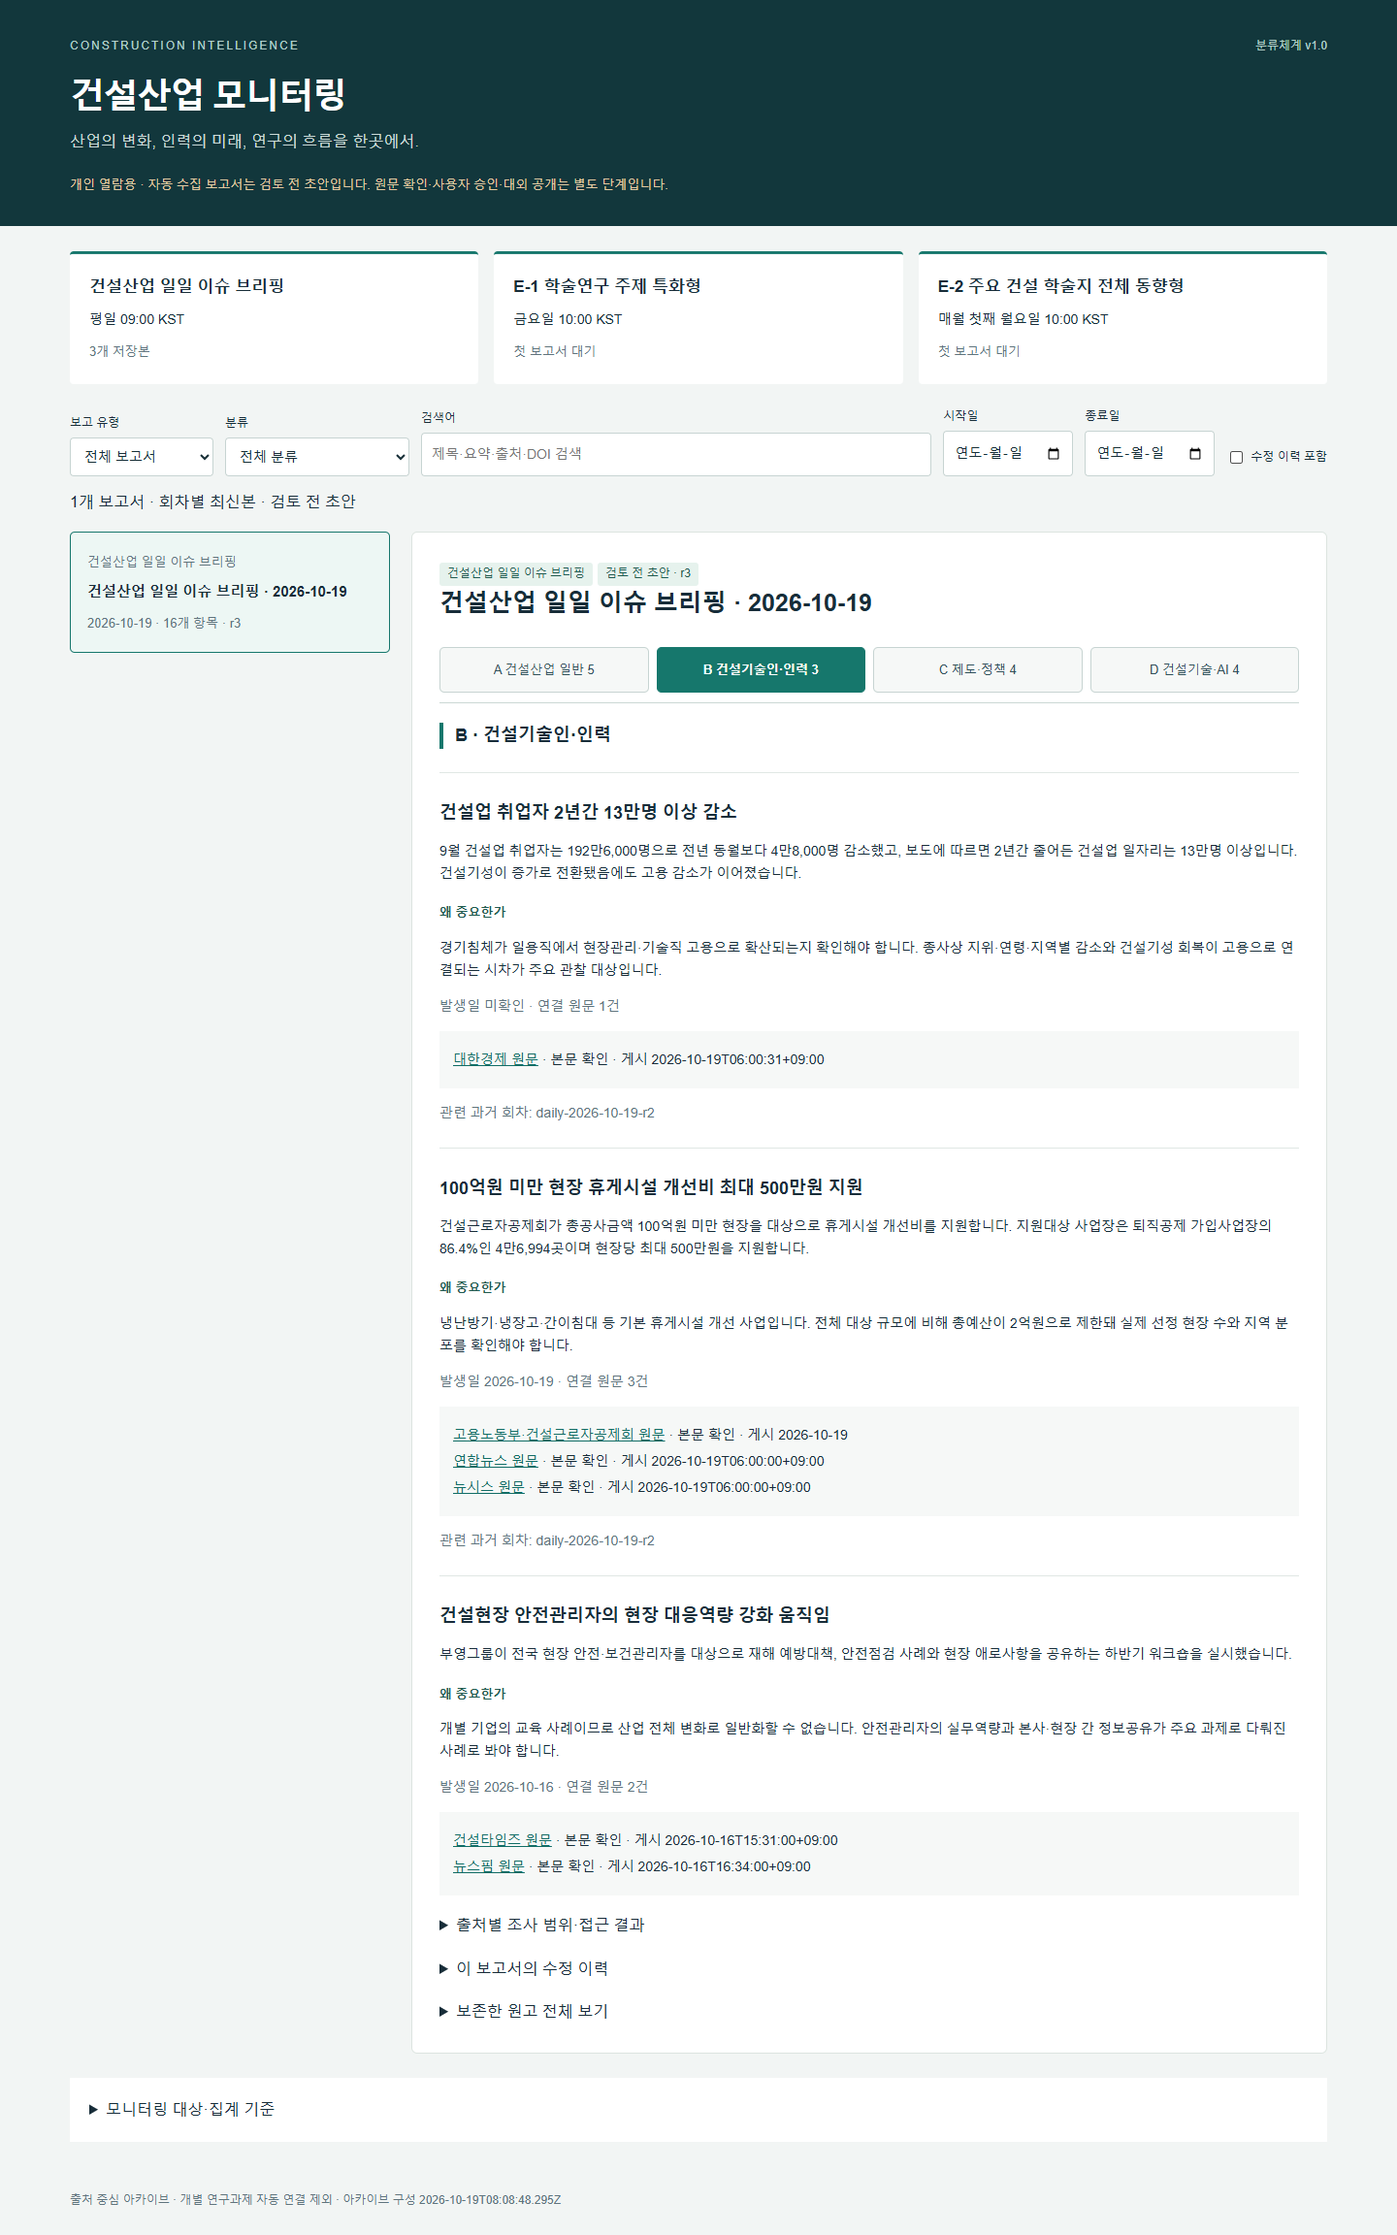
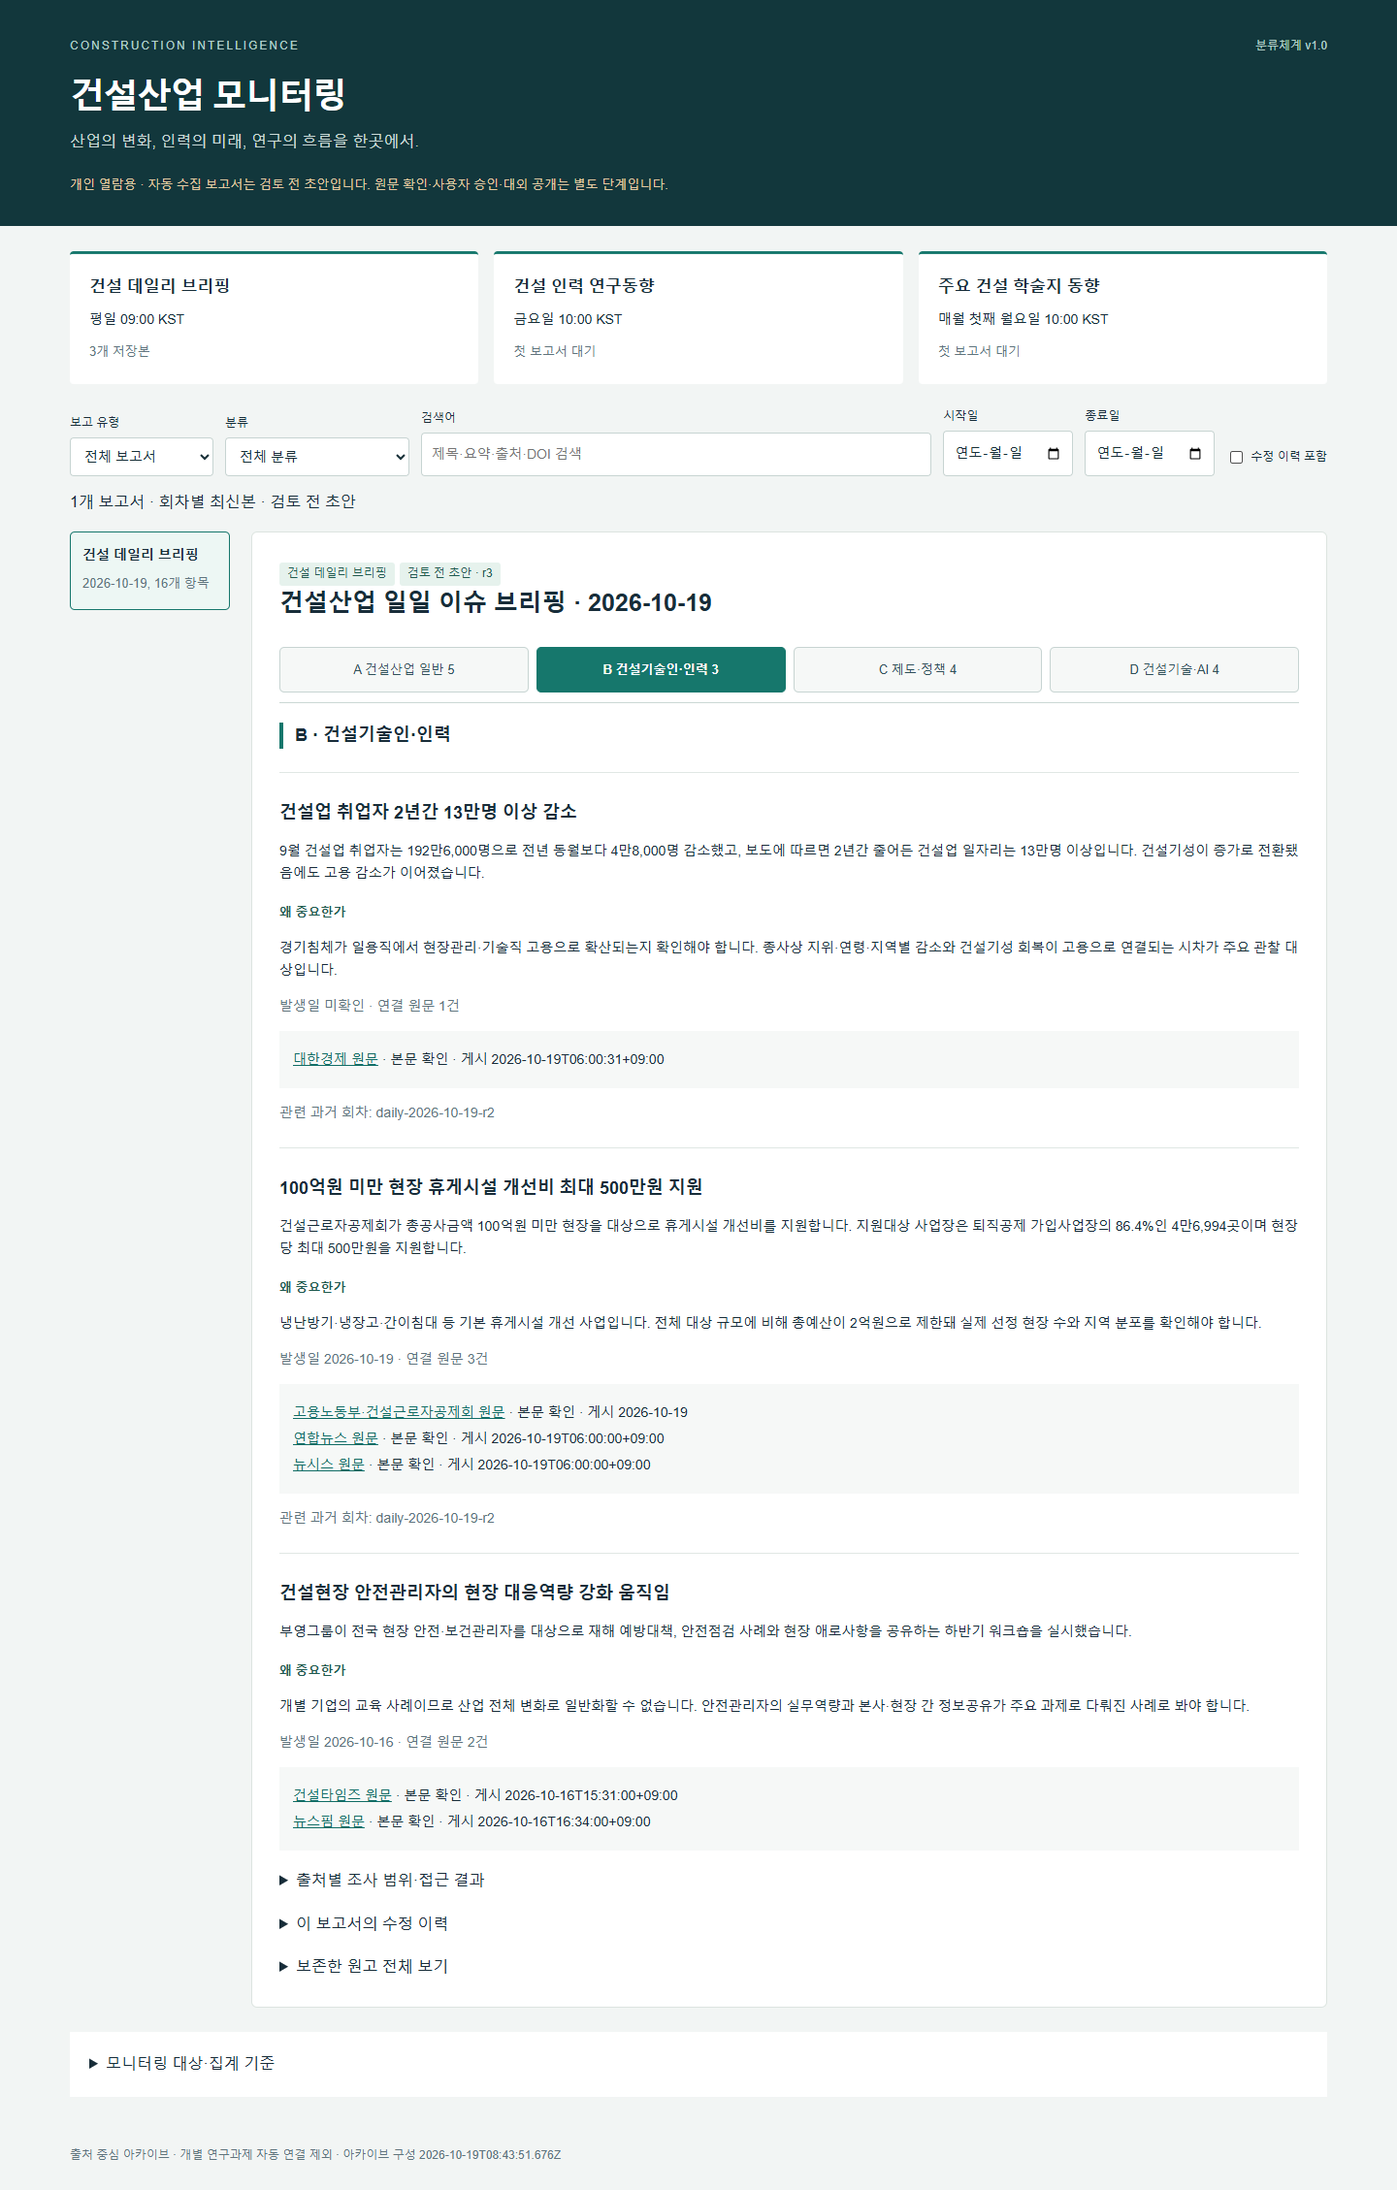
Simplify report navigation

diff --git a/dist/app.js b/dist/app.js
@@ -20,6 +20,6 @@ function show(r){selected=r.id;const d=$('#detail');d.replaceChildren(el('span',
  const coverage=el('details');coverage.append(el('summary','출처별 조사 범위·접근 결과'));r.coverage.forEach(c=>coverage.append(el('p',`${c.sourceId} · ${c.status} · ${c.note}`)));d.append(coverage);
  const history=el('details');history.append(el('summary','이 보고서의 수정 이력'));catalog.reports.filter(p=>p.kind===r.kind&&p.cycle===r.cycle).forEach(p=>{const b=el('button',`r${p.revision} · ${p.generatedAt}`);b.onclick=()=>show(p);history.append(b);});d.append(history);const raw=el('details');raw.append(el('summary','보존한 원고 전체 보기'),el('pre',r.markdown));d.append(raw);
  document.querySelectorAll('.report').forEach(b=>b.classList.toggle('active',b.dataset.id===selected));}
-function render(){const q=$('#query').value.trim().toLowerCase(),kind=$('#kind').value,c=$('#category').value,from=$('#from').value,to=$('#to').value;if(Object.hasOwn(catalog.config.categories,c))activeDailyTab=c;const seen=new Set();const latest=catalog.reports.filter(r=>{const k=r.kind+':'+r.cycle;if(!$('#history').checked&&seen.has(k))return false;seen.add(k);return true;});const rs=latest.filter(r=>(!kind||r.kind===kind)&&(!from||r.date>=from)&&(!to||r.date<=to)&&(!c||r.items.some(x=>x.classification===c))&&(!q||JSON.stringify([r.title,r.highlights,r.items]).toLowerCase().includes(q)));$('#status').textContent=`${rs.length}개 보고서 · ${$('#history').checked?'수정본 포함':'회차별 최신본'} · 검토 전 초안`;$('#reports').replaceChildren();rs.forEach(r=>{const b=el('button',undefined,'report');b.dataset.id=r.id;b.append(el('span',label(r),'muted'),el('strong',r.title),el('span',r.date+' · '+r.items.length+'개 항목 · r'+r.revision,'muted'));b.onclick=()=>show(r);$('#reports').append(b);});if(rs.length){show(rs.find(r=>r.id===selected)||rs[0]);}else $('#detail').replaceChildren(el('h2','해당 보고서가 없습니다'),el('p','조건을 변경하거나 다음 예약 실행 결과를 확인해 주세요.'));}
+function render(){const q=$('#query').value.trim().toLowerCase(),kind=$('#kind').value,c=$('#category').value,from=$('#from').value,to=$('#to').value;if(Object.hasOwn(catalog.config.categories,c))activeDailyTab=c;const seen=new Set();const latest=catalog.reports.filter(r=>{const k=r.kind+':'+r.cycle;if(!$('#history').checked&&seen.has(k))return false;seen.add(k);return true;});const rs=latest.filter(r=>(!kind||r.kind===kind)&&(!from||r.date>=from)&&(!to||r.date<=to)&&(!c||r.items.some(x=>x.classification===c))&&(!q||JSON.stringify([r.title,r.highlights,r.items]).toLowerCase().includes(q)));$('#status').textContent=`${rs.length}개 보고서 · ${$('#history').checked?'수정본 포함':'회차별 최신본'} · 검토 전 초안`;$('#reports').replaceChildren();rs.forEach(r=>{const b=el('button',undefined,'report');b.dataset.id=r.id;b.append(el('strong',label(r)),el('span',r.date+', '+r.items.length+'개 항목','muted'));b.onclick=()=>show(r);$('#reports').append(b);});if(rs.length){show(rs.find(r=>r.id===selected)||rs[0]);}else $('#detail').replaceChildren(el('h2','해당 보고서가 없습니다'),el('p','조건을 변경하거나 다음 예약 실행 결과를 확인해 주세요.'));}
 async function init(){try{const response=await fetch('catalog.json',{cache:'no-store'});if(!response.ok)throw Error('목록 수신 실패');catalog=await response.json();for(const [k,s] of Object.entries(catalog.config.schedules)){const card=el('div',undefined,'card'),count=catalog.reports.filter(r=>r.kind===k).length;card.append(el('h2',s.label),el('p',s.time),el('span',count?count+'개 저장본':'첫 보고서 대기','muted'));$('#schedule').append(card);}for(const [k,v] of [...Object.entries(catalog.config.categories),...Object.entries(catalog.config.topics),...catalog.config.paperCategories.map(x=>[x,x])]){const o=el('option',v);o.value=k;$('#category').append(o);}$('#scope').append(el('p','E-1: '+Object.values(catalog.config.topics).join(' · ')),el('p','E-2: '+catalog.config.paperCategories.join(' · ')),el('p','대표 주제 1개/논문. AI 활용 여부는 yes/no/unknown의 별도 태그. 접근 실패 자료는 0편으로 간주하지 않으며, 확인한 자료의 분포만 표시합니다.'));catalog.config.journals.forEach(j=>{const p=el('p');p.append(document.createTextNode(j.id+' · '),link(j.discoveryUrl,j.name));$('#scope').append(p);});$('#scope').append(el('p',catalog.config.journalLinkStatus,'muted'));$('#built').textContent='아카이브 구성 '+catalog.builtAt;for(const s of ['#kind','#category','#query','#from','#to','#history'])$(s).addEventListener('input',render);render();}catch(e){$('#status').textContent='자료를 불러오지 못했습니다. 연결 상태를 확인해 주세요.';}}
 init();

diff --git a/src/app.js b/src/app.js
@@ -20,6 +20,6 @@ function show(r){selected=r.id;const d=$('#detail');d.replaceChildren(el('span',
  const coverage=el('details');coverage.append(el('summary','출처별 조사 범위·접근 결과'));r.coverage.forEach(c=>coverage.append(el('p',`${c.sourceId} · ${c.status} · ${c.note}`)));d.append(coverage);
  const history=el('details');history.append(el('summary','이 보고서의 수정 이력'));catalog.reports.filter(p=>p.kind===r.kind&&p.cycle===r.cycle).forEach(p=>{const b=el('button',`r${p.revision} · ${p.generatedAt}`);b.onclick=()=>show(p);history.append(b);});d.append(history);const raw=el('details');raw.append(el('summary','보존한 원고 전체 보기'),el('pre',r.markdown));d.append(raw);
  document.querySelectorAll('.report').forEach(b=>b.classList.toggle('active',b.dataset.id===selected));}
-function render(){const q=$('#query').value.trim().toLowerCase(),kind=$('#kind').value,c=$('#category').value,from=$('#from').value,to=$('#to').value;if(Object.hasOwn(catalog.config.categories,c))activeDailyTab=c;const seen=new Set();const latest=catalog.reports.filter(r=>{const k=r.kind+':'+r.cycle;if(!$('#history').checked&&seen.has(k))return false;seen.add(k);return true;});const rs=latest.filter(r=>(!kind||r.kind===kind)&&(!from||r.date>=from)&&(!to||r.date<=to)&&(!c||r.items.some(x=>x.classification===c))&&(!q||JSON.stringify([r.title,r.highlights,r.items]).toLowerCase().includes(q)));$('#status').textContent=`${rs.length}개 보고서 · ${$('#history').checked?'수정본 포함':'회차별 최신본'} · 검토 전 초안`;$('#reports').replaceChildren();rs.forEach(r=>{const b=el('button',undefined,'report');b.dataset.id=r.id;b.append(el('span',label(r),'muted'),el('strong',r.title),el('span',r.date+' · '+r.items.length+'개 항목 · r'+r.revision,'muted'));b.onclick=()=>show(r);$('#reports').append(b);});if(rs.length){show(rs.find(r=>r.id===selected)||rs[0]);}else $('#detail').replaceChildren(el('h2','해당 보고서가 없습니다'),el('p','조건을 변경하거나 다음 예약 실행 결과를 확인해 주세요.'));}
+function render(){const q=$('#query').value.trim().toLowerCase(),kind=$('#kind').value,c=$('#category').value,from=$('#from').value,to=$('#to').value;if(Object.hasOwn(catalog.config.categories,c))activeDailyTab=c;const seen=new Set();const latest=catalog.reports.filter(r=>{const k=r.kind+':'+r.cycle;if(!$('#history').checked&&seen.has(k))return false;seen.add(k);return true;});const rs=latest.filter(r=>(!kind||r.kind===kind)&&(!from||r.date>=from)&&(!to||r.date<=to)&&(!c||r.items.some(x=>x.classification===c))&&(!q||JSON.stringify([r.title,r.highlights,r.items]).toLowerCase().includes(q)));$('#status').textContent=`${rs.length}개 보고서 · ${$('#history').checked?'수정본 포함':'회차별 최신본'} · 검토 전 초안`;$('#reports').replaceChildren();rs.forEach(r=>{const b=el('button',undefined,'report');b.dataset.id=r.id;b.append(el('strong',label(r)),el('span',r.date+', '+r.items.length+'개 항목','muted'));b.onclick=()=>show(r);$('#reports').append(b);});if(rs.length){show(rs.find(r=>r.id===selected)||rs[0]);}else $('#detail').replaceChildren(el('h2','해당 보고서가 없습니다'),el('p','조건을 변경하거나 다음 예약 실행 결과를 확인해 주세요.'));}
 async function init(){try{const response=await fetch('catalog.json',{cache:'no-store'});if(!response.ok)throw Error('목록 수신 실패');catalog=await response.json();for(const [k,s] of Object.entries(catalog.config.schedules)){const card=el('div',undefined,'card'),count=catalog.reports.filter(r=>r.kind===k).length;card.append(el('h2',s.label),el('p',s.time),el('span',count?count+'개 저장본':'첫 보고서 대기','muted'));$('#schedule').append(card);}for(const [k,v] of [...Object.entries(catalog.config.categories),...Object.entries(catalog.config.topics),...catalog.config.paperCategories.map(x=>[x,x])]){const o=el('option',v);o.value=k;$('#category').append(o);}$('#scope').append(el('p','E-1: '+Object.values(catalog.config.topics).join(' · ')),el('p','E-2: '+catalog.config.paperCategories.join(' · ')),el('p','대표 주제 1개/논문. AI 활용 여부는 yes/no/unknown의 별도 태그. 접근 실패 자료는 0편으로 간주하지 않으며, 확인한 자료의 분포만 표시합니다.'));catalog.config.journals.forEach(j=>{const p=el('p');p.append(document.createTextNode(j.id+' · '),link(j.discoveryUrl,j.name));$('#scope').append(p);});$('#scope').append(el('p',catalog.config.journalLinkStatus,'muted'));$('#built').textContent='아카이브 구성 '+catalog.builtAt;for(const s of ['#kind','#category','#query','#from','#to','#history'])$(s).addEventListener('input',render);render();}catch(e){$('#status').textContent='자료를 불러오지 못했습니다. 연결 상태를 확인해 주세요.';}}
 init();

diff --git a/dist/style.css b/dist/style.css
@@ -6,7 +6,7 @@ header{background:#12373c;color:white;padding:38px max(5vw,20px) 32px}
 h1{font-size:36px;letter-spacing:-1.5px;margin:12px 0 4px}header p{margin:0;color:#ccdbd8}.notice{font-size:13px;padding-top:20px;color:#e3cba3}
 main{max-width:1480px;padding:26px 5vw;margin:auto}.cards{display:grid;grid-template-columns:repeat(3,1fr);gap:16px}.card{background:#fff;padding:20px;border-top:3px solid #16776c;border-radius:4px}.card h2{font-size:17px;margin:0}.card p{margin:8px 0;font-size:14px}.muted{color:#60747d;font-size:13px}
 .toolbar{display:flex;gap:12px;flex-wrap:wrap;margin:24px 0 14px;align-items:end}label{font-size:12px;display:flex;flex-direction:column;gap:5px}select,input{padding:10px;border:1px solid #c7d4d2;border-radius:4px;font:inherit;font-size:14px;background:#fff;color:#172f37}.search{flex:1;min-width:200px}.check{flex-direction:row;align-items:center;padding-bottom:10px}
-.layout{display:grid;grid-template-columns:330px 1fr;gap:22px;margin-top:16px;align-items:start}#reports{display:flex;flex-direction:column;gap:10px}button.report{text-align:left;border:1px solid #d9e2df;background:white;border-radius:5px;padding:17px;cursor:pointer;font:inherit;color:inherit}button.report:hover,button.report.active{border-color:#16776c;background:#edf7f4}button.report strong{display:block;font-size:15px;margin:6px 0}
+.layout{display:grid;grid-template-columns:165px 1fr;gap:22px;margin-top:16px;align-items:start}#reports{display:flex;flex-direction:column;gap:10px}button.report{text-align:left;border:1px solid #d9e2df;background:white;border-radius:5px;padding:13px 12px;cursor:pointer;font:inherit;color:inherit}button.report:hover,button.report.active{border-color:#16776c;background:#edf7f4}button.report strong{display:block;font-size:14px;line-height:1.45;margin:0 0 6px}
 article{background:white;border:1px solid #dce4e0;padding:28px;border-radius:6px;min-width:0}article h2{font-size:25px;margin:0 0 12px;line-height:1.4}article h3{font-size:18px;line-height:1.5;margin:8px 0}article h4{font-size:13px;color:#215b50;margin:18px 0 2px}
 .badge{display:inline-block;background:#e6f2ed;color:#215b50;padding:2px 8px;border-radius:3px;font-size:12px;margin-right:5px}.warning{background:#fff7e7;color:#755416;padding:14px;border-left:3px solid #d7b15f}
 .domain-tabs{display:grid;grid-template-columns:repeat(4,1fr);gap:8px;margin:28px 0 20px;border-bottom:1px solid #cbd8d4;padding-bottom:10px}.domain-tab{border:1px solid #c7d4d2;background:#f6f8f7;color:#31515a;border-radius:5px;padding:12px 10px;font:inherit;font-size:13px;cursor:pointer}.domain-tab:hover,.domain-tab:focus-visible{border-color:#16776c;outline:2px solid #b9ddd5;outline-offset:1px}.domain-tab.active{background:#16776c;border-color:#16776c;color:#fff;font-weight:700}.domain-heading{border-left:4px solid #16776c;padding-left:12px;margin-top:0!important}

diff --git a/src/style.css b/src/style.css
@@ -6,7 +6,7 @@ header{background:#12373c;color:white;padding:38px max(5vw,20px) 32px}
 h1{font-size:36px;letter-spacing:-1.5px;margin:12px 0 4px}header p{margin:0;color:#ccdbd8}.notice{font-size:13px;padding-top:20px;color:#e3cba3}
 main{max-width:1480px;padding:26px 5vw;margin:auto}.cards{display:grid;grid-template-columns:repeat(3,1fr);gap:16px}.card{background:#fff;padding:20px;border-top:3px solid #16776c;border-radius:4px}.card h2{font-size:17px;margin:0}.card p{margin:8px 0;font-size:14px}.muted{color:#60747d;font-size:13px}
 .toolbar{display:flex;gap:12px;flex-wrap:wrap;margin:24px 0 14px;align-items:end}label{font-size:12px;display:flex;flex-direction:column;gap:5px}select,input{padding:10px;border:1px solid #c7d4d2;border-radius:4px;font:inherit;font-size:14px;background:#fff;color:#172f37}.search{flex:1;min-width:200px}.check{flex-direction:row;align-items:center;padding-bottom:10px}
-.layout{display:grid;grid-template-columns:330px 1fr;gap:22px;margin-top:16px;align-items:start}#reports{display:flex;flex-direction:column;gap:10px}button.report{text-align:left;border:1px solid #d9e2df;background:white;border-radius:5px;padding:17px;cursor:pointer;font:inherit;color:inherit}button.report:hover,button.report.active{border-color:#16776c;background:#edf7f4}button.report strong{display:block;font-size:15px;margin:6px 0}
+.layout{display:grid;grid-template-columns:165px 1fr;gap:22px;margin-top:16px;align-items:start}#reports{display:flex;flex-direction:column;gap:10px}button.report{text-align:left;border:1px solid #d9e2df;background:white;border-radius:5px;padding:13px 12px;cursor:pointer;font:inherit;color:inherit}button.report:hover,button.report.active{border-color:#16776c;background:#edf7f4}button.report strong{display:block;font-size:14px;line-height:1.45;margin:0 0 6px}
 article{background:white;border:1px solid #dce4e0;padding:28px;border-radius:6px;min-width:0}article h2{font-size:25px;margin:0 0 12px;line-height:1.4}article h3{font-size:18px;line-height:1.5;margin:8px 0}article h4{font-size:13px;color:#215b50;margin:18px 0 2px}
 .badge{display:inline-block;background:#e6f2ed;color:#215b50;padding:2px 8px;border-radius:3px;font-size:12px;margin-right:5px}.warning{background:#fff7e7;color:#755416;padding:14px;border-left:3px solid #d7b15f}
 .domain-tabs{display:grid;grid-template-columns:repeat(4,1fr);gap:8px;margin:28px 0 20px;border-bottom:1px solid #cbd8d4;padding-bottom:10px}.domain-tab{border:1px solid #c7d4d2;background:#f6f8f7;color:#31515a;border-radius:5px;padding:12px 10px;font:inherit;font-size:13px;cursor:pointer}.domain-tab:hover,.domain-tab:focus-visible{border-color:#16776c;outline:2px solid #b9ddd5;outline-offset:1px}.domain-tab.active{background:#16776c;border-color:#16776c;color:#fff;font-weight:700}.domain-heading{border-left:4px solid #16776c;padding-left:12px;margin-top:0!important}
